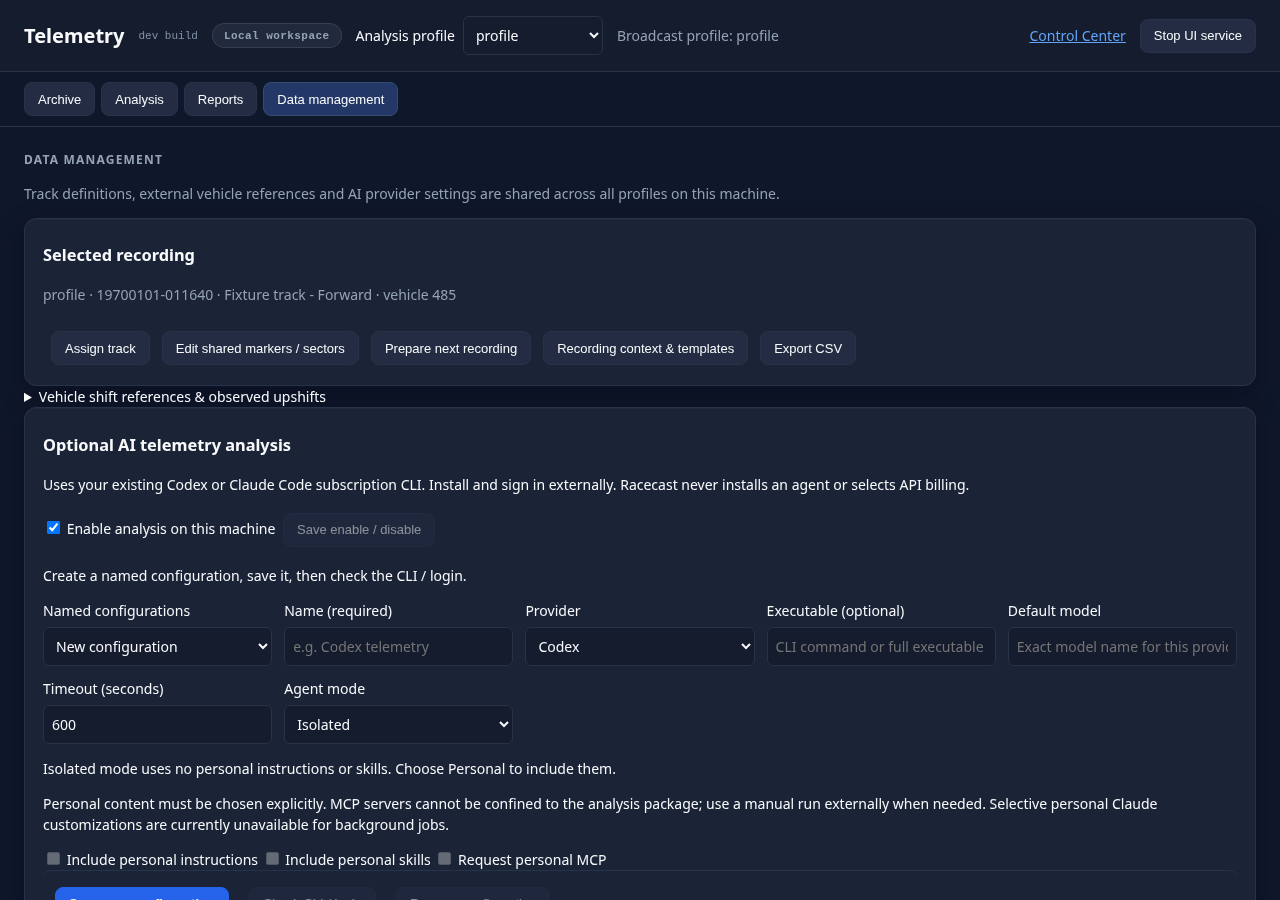
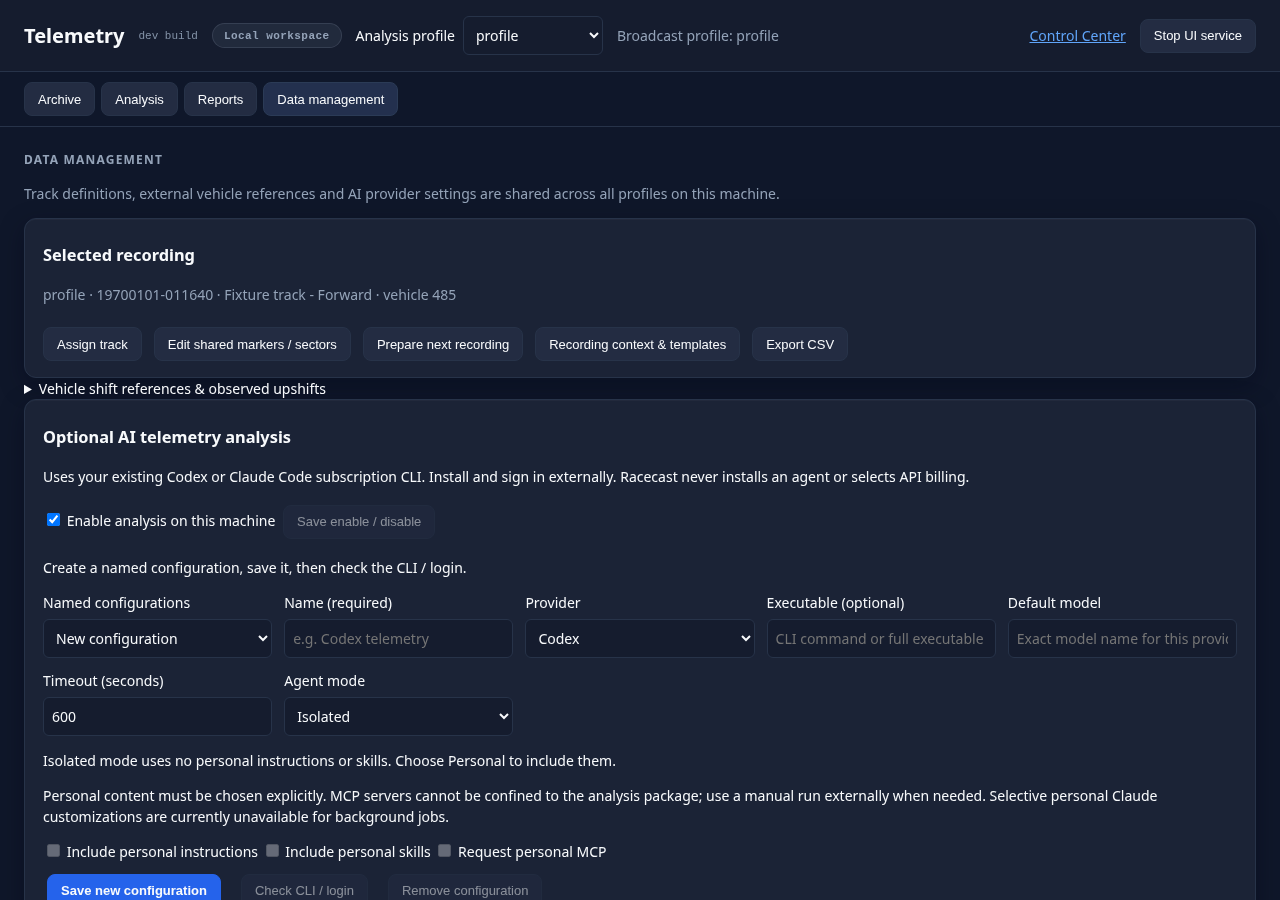
fix(telemetry): keep notes and AI selection with the analysed recording

diff --git a/src/ui/telemetry-context.js b/src/ui/telemetry-context.js
@@ -58,7 +58,7 @@ function tcField(parent, label, value, type, setter, key) {
 async function tcOpen(prepared=false) {
  tc.open=true;tc.returnFocus=document.activeElement;tc.position=!prepared&&tmState.lapB&&tmState.noteCursorKey===tmKey(tmState.lapB)&&tmState.noteCursor?tcClone(tmState.noteCursor):null;
  $('tm-context-modal').hidden=false;
- await tcLoad(prepared?null:tmState.rec);$('tc-target').focus();
+ await tcLoad(prepared?null:(tmState.lapB?.rec||tmState.rec));$('tc-target').focus();
 }
 async function tcClose() {
  await tcSave();tc.open=false;tc.generation++;tcReleaseAction();tcReleaseLoad();$('tm-context-modal').hidden=true;tc.returnFocus?.focus?.();
@@ -84,7 +84,7 @@ async function tcLoad(rec, before=null) {
  finally{if(gen===tc.generation)tcReleaseLoad();}
  if(gen!==tc.generation||!tc.open)return;
  if(!d.ok||!d.context){$('tc-target').value=tc.target||'';tcStatus(d.error||'Context unavailable',true);return;}
- tc.target=rec||null;if(tc.target!==tmState.rec)tc.position=null;
+ tc.target=rec||null;if(tc.target!==tmState.lapB?.rec)tc.position=null;
  tc.reply=d;tc.doc=d.context;tc.data=tcClone(tc.doc.data);tc.draft=tcClone(tc.doc.draft||{});tc.dirty=false;
  tc.session=d.sessions.includes(tc.session)?tc.session:d.sessions[0]||'1';
  const backup=tcBackup();
@@ -117,7 +117,7 @@ async function tcSave() {
   else {tcKeepDraft();tc.timer=setTimeout(()=>tcSave(),400);}
   tcHistory();tcStatus(Object.keys(tc.draft).length?'Saved valid values; unfinished inputs retained as draft':
     'Saved · revision '+tc.doc.revision);
-  if(changed&&target===tmState.rec)await tmRefreshContext(target);
+  if(changed)await tmRefreshContext(target);
   return true;
  })();
  const ok=await tc.pending;tc.pending=null;return ok;
@@ -137,7 +137,7 @@ async function tcAction(action, extra={}) {
  if(!d.ok){tcStatus(d.error||'Could not apply the change',true);return;}
  tc.reply=d;tc.doc=d.context;tc.data=tcClone(d.context.data);tc.draft=tcClone(d.context.draft||{});
  tcRender();tcStatus('Saved · revision '+tc.doc.revision);
- if(tc.target===tmState.rec)await tmRefreshContext(tc.target);
+ await tmRefreshContext(tc.target);
 }
 function tcRestoreLocal() {
  const backup=tcBackup();
@@ -242,12 +242,12 @@ function tcNotes() {
   if(note.scope==='lap')tcField(grid,'Lap',note.lap,'required-integer',v=>{note.lap=v;delete note.position;},'note.'+note.id+'.lap');
   card.append(tcNoteField(note));
   if(note.position)card.append(tcEl('p','Track position attached · x '+note.position.x.toFixed(1)+' / z '+note.position.z.toFixed(1),'sub'));
-  if(tc.position&&note.scope==='lap'&&tc.target===tmState.rec&&note.session===tmState.lapB?.session&&note.lap===tmState.lapB?.lap)tcButton(card,'Attach current chart position',()=>{note.position=tcClone(tc.position);tcNotes();tcChanged();});
+  if(tc.position&&note.scope==='lap'&&tc.target===tmState.lapB?.rec&&note.session===tmState.lapB?.session&&note.lap===tmState.lapB?.lap)tcButton(card,'Attach current chart position',()=>{note.position=tcClone(tc.position);tcNotes();tcChanged();});
   tcButton(card,'Remove note',()=>{tc.data.notes.splice(i,1);tcNotes();tcChanged();});root.append(card);
  });
 }
 function tcAddNote() {
- const here=tc.target===tmState.rec&&tmState.lapB&&Number(tc.session)===tmState.lapB.session;
+ const here=tc.target===tmState.lapB?.rec&&tmState.lapB&&Number(tc.session)===tmState.lapB.session;
  tc.data.notes||=[];tc.data.notes.push({id:tcUID(),scope:here?'lap':tc.target?'session':'recording',
   session:Number(tc.session),lap:here?tmState.lapB.lap:1,text:''});tcNotes();tcChanged();
 }

diff --git a/src/ui/telemetry.html b/src/ui/telemetry.html
@@ -95,7 +95,7 @@ body.workspace {height:100vh;overflow:hidden;--tm-a:var(--warn);--tm-b:var(--lin
       </div>
 
 <div class="view" data-view="reports" hidden><h2>Analysis reports</h2><p class="sub">Saved reports and immutable input packages belong to the selected analysis profile.</p><button onclick="RacecastAI.history()">Refresh history</button><div id="workspace-reports"></div></div>
-<div class="view" data-view="settings" hidden><h2>Data management</h2><p class="sub">Track definitions, external vehicle references and AI provider settings are shared across all profiles on this machine.</p><section><h3>Selected recording</h3><p id="workspace-selected" class="sub">Choose a recording in Archive.</p><div class="row"><button onclick="tmShowSetTrack(null);showView('telemetry')">Assign track</button><button onclick="tmEditorOpen()">Edit shared markers / sectors</button><button onclick="tcOpen(true)">Prepare next recording</button><button onclick="tcOpen()">Recording context &amp; templates</button><button onclick="workspaceExport()">Export CSV</button></div></section>
+<div class="view" data-view="settings" hidden><h2>Data management</h2><p class="sub">Track definitions, external vehicle references and AI provider settings are shared across all profiles on this machine.</p><section><h3>Selected recording</h3><p id="workspace-selected" class="sub">Choose a recording in Archive.</p><div class="row"><button onclick="tmShowSetTrack(null);showView('telemetry')">Assign track</button><button onclick="tmEditorOpen()">Edit shared markers / sectors</button><button onclick="tcOpen(true)">Prepare next recording</button><button onclick="tcOpen()">Analysed lap context &amp; templates</button><button onclick="workspaceExport()">Export CSV</button></div></section>
             <details id="tm-shift-box" ontoggle="tmShiftLoad()"><summary>Vehicle shift references &amp; observed upshifts</summary>
               <div class="row"><button onclick="tmShiftLoad()">Read local lookup</button><button id="tm-shift-update" onclick="tmShiftUpdate()">Update external reference for this car</button>
                 <button id="tm-shift-copy" onclick="tmShiftCopy()" disabled>Copy targets to event table</button></div>

diff --git a/src/ui/ai-analysis.js b/src/ui/ai-analysis.js
@@ -113,10 +113,11 @@ async function probe(){
 }
 async function selection(){
  if(!state.settings)await settings();
- if(!state.settings?.enabled||!tmState.rec)return;
+ const rec=tmState.lapB?.rec||tmState.rec;
+ if(!state.settings?.enabled||!rec)return;
  state.profile=tmState.profile;invalidate();$id('ai-preview-button').disabled=true;const generation=state.generation;
  say('ai-selection-status','Loading completed sessions and explicit reference suggestions…');
- const result=await request('selection',{query:{rec:tmState.rec}});
+ const result=await request('selection',{query:{rec}});
  if(generation!==state.generation||(result.ok&&result.profile!==tmState.profile))return;
  if(!result.ok){say('ai-selection-status',error(result));return;}
  state.selection=result;$id('ai-preview-button').disabled=!result.sessions.length;const select=$id('ai-session');select.textContent='';result.sessions.forEach(s=>option(select,s.session,'Session '+s.session));

diff --git a/src/ui/telemetry-workspace.js b/src/ui/telemetry-workspace.js
@@ -656,10 +656,13 @@ function tmFillPickers(lapB) {
 }
 
 async function tmRefreshContext(rec) {
+  if (!rec || ![tmState.rec,tmState.lapA?.rec,tmState.lapB?.rec].includes(rec)) return;
   const selected = tmState.b;
   tmShiftState.generation++;tmShiftState.analysis=null;tmShiftState.pair=null;
   $('tm-shift-values').textContent='';
-  tmDropLaps();await tmSelectRec(rec);
+  tmDropLaps();
+  if (rec !== tmState.rec) {await tmReloadRecordingPool();return;}
+  await tmSelectRec(rec);
   if (tmState.rec !== rec) return;
   const previous = tmState.recLaps.find(l => tmKey(l) === selected);
   if (previous) await tmSelectB(previous);

diff --git a/tools/e2e-recording-selection.py b/tools/e2e-recording-selection.py
@@ -28,14 +28,20 @@ def main():
         ctx['telemetry_recordings']=fixture.m.telemetry_recordings_data
         ctx['telemetry_laps']=fixture.m.telemetry_laps_data
         ctx['telemetry_lap']=fixture.m.telemetry_lap_data
+        ctx['telemetry_context_read']=fixture.m.telemetry_context_read_data
+        ctx['telemetry_context_write']=fixture.m.telemetry_context_write_data
         primary=fixture.m.telemetry_lap_data(fixture._stem(new),'1','3')['lap']
         reference=fixture.m.telemetry_lap_data(fixture._stem(old),'1','2')['lap']
         def target(lap):
             return {k:lap[k] for k in ('rec','session','lap','recording_id')}
         report=dict(language='en',findings=[dict(priority=1,title='Saved comparison',
             telemetry=target(primary),comparisons=[target(reference)],evidence=[])],exercises=[],limitations=[])
+        selected_recordings=[]
         def ai(operation,payload):
-            if operation=='settings':return dict(ok=True,enabled=False,agents=[])
+            if operation=='settings':return dict(ok=True,enabled=True,agents=[])
+            if operation=='selection':
+                selected_recordings.append(payload['rec'])
+                return dict(ok=True,profile='solo',rec=payload['rec'],sessions=[])
             if operation=='history':return dict(ok=True,profile='solo',runs=[dict(id='saved',created_at=1700000000,state='completed')])
             if operation=='job':return dict(ok=True,profile='solo',state='completed',report=report)
             return dict(ok=True,busy=False)
@@ -62,6 +68,14 @@ def main():
                 assert numbers==sorted(numbers),'laps must remain in driving order'
                 page.locator('#tm-recording-options input').first.uncheck()
                 page.wait_for_function('() => tmState.lapB && tmState.lapB.rec !== tmState.rec')
+                page.evaluate('() => tcOpen()')
+                page.wait_for_function('() => tc.doc && !tc.loading')
+                assert page.evaluate('() => tc.target === tmState.lapB.rec'), 'Notes must follow analysed lap B, including cross-recording comparisons'
+                page.evaluate('() => tcAddNote()')
+                assert page.evaluate('() => tc.data.notes.at(-1).scope === "lap" && tc.data.notes.at(-1).lap === tmState.lapB.lap')
+                page.evaluate('() => {tc.data.notes.pop();tc.dirty=false;return tcClose();}')
+                page.evaluate('() => RacecastAI.selection()')
+                assert selected_recordings[-1] == page.evaluate('() => tmState.lapB.rec'), 'AI selection must follow analysed lap B'
                 assert page.locator('#tm-b optgroup').count()==1
                 assert page.evaluate('() => tmState.pool.laps.every(l=>tmState.included.has(l.rec))')
                 open_recording_menu(page)

diff --git a/tests/test_telemetry_workspace.py b/tests/test_telemetry_workspace.py
@@ -120,7 +120,8 @@ def server(ai_busy=False):
            "ai_request": lambda op, payload: {"ok": True, "profile": m._active_profile_name()},
            "ops": {"telemetry-index": ["telemetry", "index"], "relay-start": ["relay", "start"]},
            "build_argv": lambda name, params: ["telemetry", "index"],
-           "jobs": type("Jobs", (), {"start": lambda self, name, argv: ("/".join(argv), None)})()}
+           "jobs": type("Jobs", (), {"start": lambda self, name, argv: ("/".join(argv), None),
+                                    "snapshot": lambda self, job_id: {"id": job_id, "profile": "beta", "exit_code": 0}})()}
     srv = us.serve(ctx, "127.0.0.1", 0)
     thread = threading.Thread(target=srv.serve_forever, daemon=True)
     thread.start()
@@ -160,6 +161,14 @@ def t_scoped_jobs_pin_the_child_profile_and_refuse_broadcast_operations():
         assert code == 200 and json.loads(body)["job_id"] == "--profile/beta/telemetry/index"
         code, body = request("/api/op/relay-start?profile=beta", {})
         assert code == 400 and json.loads(body)["error"]["code"] == "invalid_operation"
+
+
+def t_job_queries_refuse_another_analysis_profile():
+    with profiles(), server() as request:
+        code,body=request("/api/jobs/owned?profile=beta")
+        assert code==200 and json.loads(body)["profile"]=="beta"
+        code,body=request("/api/jobs/owned?profile=alpha")
+        assert code==404 and json.loads(body)["error"]["code"]=="profile_mismatch"
 
 
 def t_unknown_profiles_and_foreign_origins_fail_with_explicit_errors():

diff --git a/src/docs/design/telemetry-workspace.md b/src/docs/design/telemetry-workspace.md
@@ -41,3 +41,7 @@ The same local origin retains existing browser drafts. UI preferences and the la
 `tests/test_telemetry_workspace.py` covers request-local profile resolution, concurrent requests, child pinning, invalid profiles and local-origin refusal. Existing telemetry/context/AI tests retain their domain assertions against the extracted production functions.
 
 `tools/e2e-telemetry-workspace.py` uses temporary copies of the source app, two real profile archives, real callbacks and CLI subprocesses, without a live relay. It checks independent profile/context/export ownership, delayed deletion confirmation, launcher reuse, distance cursor/zoom, reload and responsive tasks. `tools/e2e-ai.py`, `tools/e2e-engineer.py` and `tools/e2e-telemetry-replay.py` cover the preserved AI, sharing and broadcast replay workflows. Full visual acceptance includes the dedicated tasks and the retained Control Center controls.
+
+Notes opened from Analysis and AI preparation use the analysed lap B recording,
+including comparisons across recordings. Archive deletion and CSV export continue
+to use the selected archive recording.
